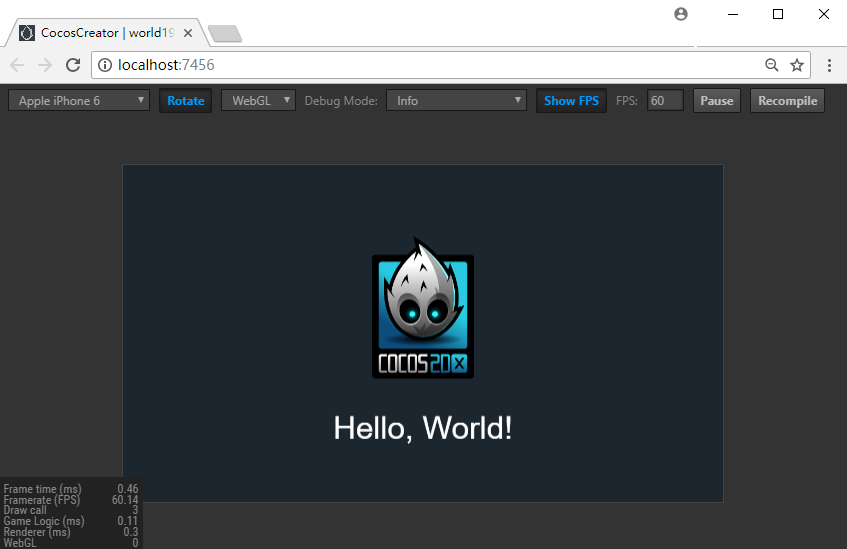
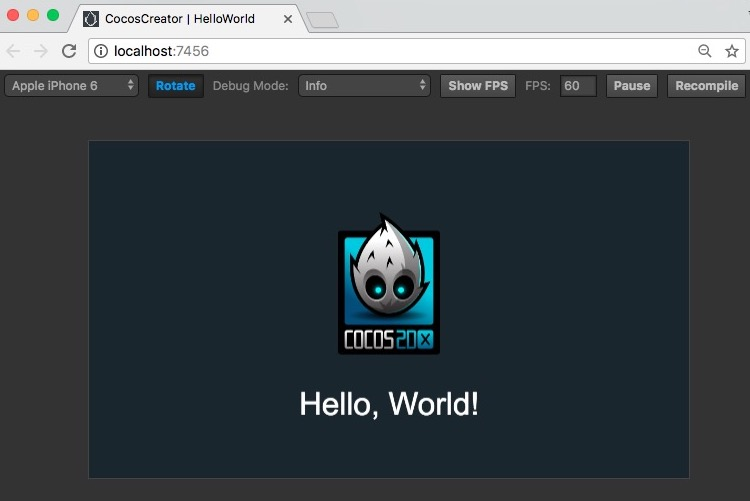
去除与渲染模式相关

diff --git a/en/publish/publish-wechatgame.md b/en/publish/publish-wechatgame.md
@@ -20,7 +20,7 @@
 
 微信小游戏是微信小程序下的游戏产品平台，它不仅提供了强大的游戏能力，还和小程序一样，提供了大量的原生接口，比如支付，社交，文件系统，照片，NFC 等。相当于同时结合了 WEB 易于传播以及 Native 功能丰富的优势。
 
-小游戏的运行环境是小程序环境的扩展，基本思路也是封装必要的 WEB 接口提供给用户，尽可能追求和 WEB 同样的开发体验。小游戏在小程序环境的基础上提供了 WebGL 接口的封装，使得渲染能力和性能有了大幅度提升。不过由于这些接口都是微信团队通过自研的原生实现封装的，所以并不可以等同为浏览器环境。关于游戏方面，目前小游戏环境提供了 Canvas 以及 WebGL 的渲染接口，所以 Cocos Creator 引擎的两种渲染模式都是可以运行的，不过出于性能的考量，我们默认使用 WebGL 渲染游戏内容，强烈建议用户不要修改默认配置。
+小游戏的运行环境是小程序环境的扩展，基本思路也是封装必要的 WEB 接口提供给用户，尽可能追求和 WEB 同样的开发体验。小游戏在小程序环境的基础上提供了 WebGL 接口的封装，使得渲染能力和性能有了大幅度提升。不过由于这些接口都是微信团队通过自研的原生实现封装的，所以并不可以等同为浏览器环境。
 
 作为引擎方，为了尽可能简化开发者的工作量，我们为用户完成的主要工作包括：
 

diff --git a/zh/publish/publish-wechatgame.md b/zh/publish/publish-wechatgame.md
@@ -20,7 +20,7 @@
 
 微信小游戏是微信小程序下的游戏产品平台，它不仅提供了强大的游戏能力，还和小程序一样，提供了大量的原生接口，比如支付，社交，文件系统，照片，NFC 等。相当于同时结合了 WEB 易于传播以及 Native 功能丰富的优势。
 
-小游戏的运行环境是小程序环境的扩展，基本思路也是封装必要的 WEB 接口提供给用户，尽可能追求和 WEB 同样的开发体验。小游戏在小程序环境的基础上提供了 WebGL 接口的封装，使得渲染能力和性能有了大幅度提升。不过由于这些接口都是微信团队通过自研的原生实现封装的，所以并不可以等同为浏览器环境。关于游戏方面，目前小游戏环境提供了 Canvas 以及 WebGL 的渲染接口，所以 Cocos Creator 引擎的两种渲染模式都是可以运行的，不过出于性能的考量，我们默认使用 WebGL 渲染游戏内容，强烈建议用户不要修改默认配置。
+小游戏的运行环境是小程序环境的扩展，基本思路也是封装必要的 WEB 接口提供给用户，尽可能追求和 WEB 同样的开发体验。小游戏在小程序环境的基础上提供了 WebGL 接口的封装，使得渲染能力和性能有了大幅度提升。不过由于这些接口都是微信团队通过自研的原生实现封装的，所以并不可以等同为浏览器环境。
 
 作为引擎方，为了尽可能简化开发者的工作量，我们为用户完成的主要工作包括：
 

diff --git a/en/scripting/load-assets.md b/en/scripting/load-assets.md
@@ -199,7 +199,7 @@ There still remains some restrictions currently, the most important are:
 
 1. Native platform remote loading does not support resources other than image files
 2. This loading method supports only native resource types such as textures, audios, text, etc., and does not support direct loading and analysis of resources such as SpriteFrame, SpriteAtlas, Tilemap (requires AssetBundle support planned in future version)
-3. Remote loading ability on Web is limited by the browser's [CORS cross-domain policy restriction](https://developer.mozilla.org/en-US/docs/Web/HTTP/Access_control_CORS). If the server forbid cross-domain access, loading request will fail, and in WebGL rendering mode, even if the server allows CORS http request, textures loaded can not be rendered, this is due to WebGL security policy restrictions
+3. Remote loading ability on Web is limited by the browser's [CORS cross-domain policy restriction](https://developer.mozilla.org/en-US/docs/Web/HTTP/Access_control_CORS). If the server forbid cross-domain access, loading request will fail, and due to WebGL security policy restrictions, in WebGL rendering mode, even if the server allows CORS http request, textures loaded can not be rendered.
 
 ## Assets dependencies and how to release assets
 

diff --git a/en/publish/publish-web.md b/en/publish/publish-web.md
@@ -47,6 +47,16 @@ Next, you can click the **Play** button to open the built game version in the br
 
 A preview of the Web Desktop mode is shown above. You can see that the resolution of the game image is fixed and the game image doesn't fully cover the browser window.
 
+### Browser compatibility
+
+The desktop browsers tested during the Cocos Creator development process include: Chrome, Firefox, IE11. Other browsers as long as the kernel version is high enough to work properly, for some browsers do not open IE6 compatibility mode.
+
+Browsers tested on mobile devices include: Safari(iOS), Chrome, QQ browser, UC browser, Baidu browser, WeChat built-in Webview.
+
+## Retina setting
+
+You can use `cc.view.enableRetina(true)` to set the high resolution in the script, and the Retina display will be turned on by default when you build to the Web platform.
+
 ## Release a game on Web server
 
 If you want to release or share your games on the Internet, click the **Open** button next to **Build path**. After opening the release path, copy everything in the built `web-mobile` or `web-desktop` folders, and drop them into your Web server. Then you can see the game later there.

diff --git a/zh/scripting/load-assets.md b/zh/scripting/load-assets.md
@@ -195,7 +195,7 @@ cc.loader.load(absolutePath, function () {
 
 1. 原生平台远程加载不支持图片文件以外类型的资源
 2. 这种加载方式只支持图片、声音、文本等原生资源类型，不支持 SpriteFrame、SpriteAtlas、Tilemap 等资源的直接加载和解析（需要后续版本中的 AssetBundle 支持）
-3. Web 端的远程加载受到浏览器的 [CORS 跨域策略限制](https://developer.mozilla.org/en-US/docs/Web/HTTP/Access_control_CORS)，如果对方服务器禁止跨域访问，那么会加载失败，而且在 WebGL 渲染模式下，即便对方服务器允许 http 请求成功之后也无法渲染，这是 WebGL 的安全策略的限制
+3. Web 端的远程加载受到浏览器的 [CORS 跨域策略限制](https://developer.mozilla.org/en-US/docs/Web/HTTP/Access_control_CORS)，如果对方服务器禁止跨域访问，那么会加载失败，而且由于 WebGL 安全策略的限制，在 WebGL 渲染模式下，即便对方服务器允许 http 请求成功之后也无法渲染。
 
 ## 资源的依赖和释放
 

diff --git a/en/components/particle-system.md b/en/components/particle-system.md
@@ -74,7 +74,3 @@ Please refer to the script interface of the Particle System [Particle System API
 | RotatePerSVar      | Variation of the degress to rotate a particle around the source pos per second.
 | SrcBlendFactor     | Specify the source Blend Factor. [BlendFactor API](../../../api/en/enums/BlendFactor.html)   
 | DstBlendFactor     | Specify the destination Blend Factor. [BlendFactor API](../../../api/en/enums/BlendFactor.html)  
-
-## Note
-
-At present, due to the performance of Color rendering for each particle texture in Canvas, it is very expensive. So it is recommended that under Canvas rendering mode, the number of particles should not be too large, and try to keep it within 200, otherwise it will cause runtime very stuck.

diff --git a/en/publish/publish-in-command-line.md b/en/publish/publish-in-command-line.md
@@ -34,10 +34,6 @@ If no parameters are specified after **--build** or **--compile**, then the para
 - `previewHeight` - Web desktop window height
 - `sourceMaps` - Whether or not need add source maps
 - `webOrientation` - Orientation option on web mobile [landscape, portrait, auto]
-- `renderMode` - Render mode
-  - 0 - Automatically chosen by engine.
-  - 1 - Forced to use canvas renderer.
-  - 2 - Forced to use WebGL renderer, but this will be ignored on mobile browsers.
 - `inlineSpriteFrames` - Whether or not inline all SpriteFrames
 - `mergeStartScene` - Whether or not merge all JSON that the Start Scene depends on
 - `optimizeHotUpdate` - Whether or not merge all the SpriteFrames in the same atlas

diff --git a/zh/publish/publish-in-command-line.md b/zh/publish/publish-in-command-line.md
@@ -35,11 +35,6 @@
 - `previewHeight` - web desktop 窗口高度
 - `sourceMaps` - 是否需要加入 source maps
 - `webOrientation` - web mobile 平台（不含微信小游戏）下的旋转选项 [landscape、portrait、auto]
-- `renderMode` - 设置渲染类型
-  - 0 - 由引擎自动选择.
-  - 1 - 强制使用 Canvas 渲染模式
-  - 2 - 强制使用 Webgl 渲染模式，但是在移动浏览器中这个选项会被忽略
- 
 - `inlineSpriteFrames` - 是否内联所有 SpriteFrame
 - `mergeStartScene` - 是否合并初始场景依赖的所有 JSON
 - `optimizeHotUpdate` - 是否将图集中的全部 SpriteFrame 合并到同一个包中

diff --git a/zh/components/particle-system.md b/zh/components/particle-system.md
@@ -73,7 +73,3 @@ Particle System 的脚本接口请参考 [Particle System API](../../../api/zh/c
 | RotatePerSVar      | 粒子每秒围绕起始点的旋转角度变化范围
 | SrcBlendFactor     | 指定原图混合模式 [BlendFactor API](../../../api/zh/enums/BlendFactor.html)   
 | DstBlendFactor     | 指定目标的混合模式 [BlendFactor API](../../../api/zh/enums/BlendFactor.html)  
-
-## 注意事项
-
-目前由于在 Canvas 中进行的每个粒子纹理 Color 渲染时很耗性能，所以建议在 Canvas 渲染模式下粒子数量不要太多尽量保持在 200 个以内，否则会导致运行时非常卡

diff --git a/en/getting-started/basics/preview-build.md b/en/getting-started/basics/preview-build.md
@@ -26,7 +26,6 @@ There are a bunch of control in Preview page:
 
 - On the left are viewport size presets to simulate how your game look on mobile devices.
 - **Rotate** button to toggle between landscape and portrait view.
-- The third control from the left is for switching between WebGL and Canvas rendering mode.
 - **Debug Mode** let you control the severe level of logs to be shown.
 - **Show FPS** toggle framerate and draw call stats display.
 - **FPS** framerate cap.

diff --git a/zh/getting-started/basics/preview-build.md b/zh/getting-started/basics/preview-build.md
@@ -26,7 +26,6 @@
 
 - 最左边选择预览窗口的比例大小，来模拟在不同移动设备上的显示效果
 - **Rotate** 按钮决定显示横屏还是竖屏
-- 左起第三个按钮可以选择 `WebGL` 或者 `Canvas` 渲染模式
 - **Debug Mode** 里可以选择脚本中哪些级别的日志会输出到浏览器控制台中
 - **Show FPS** 按钮可以选择是否显示每秒帧数和 Drawcall 数量等调试信息
 - **FPS** 限制最高每秒帧数
